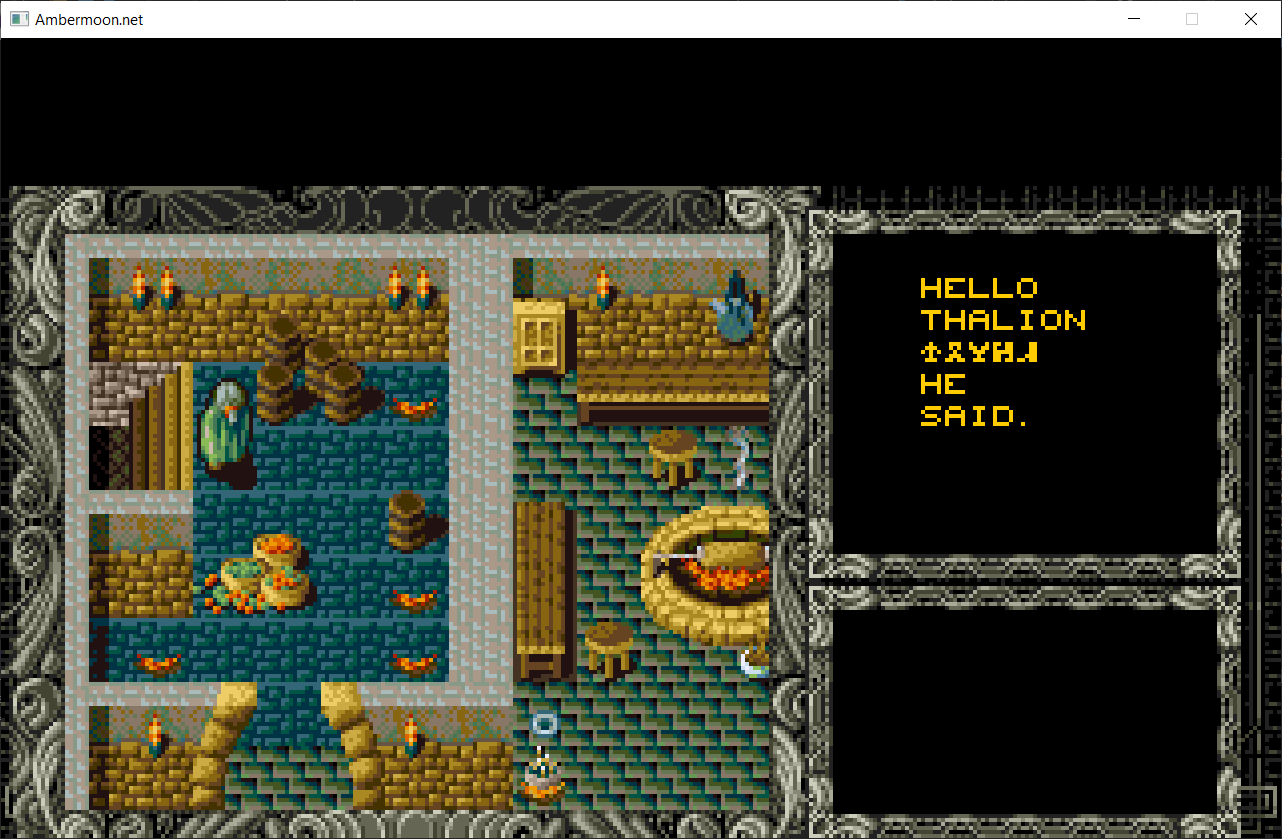
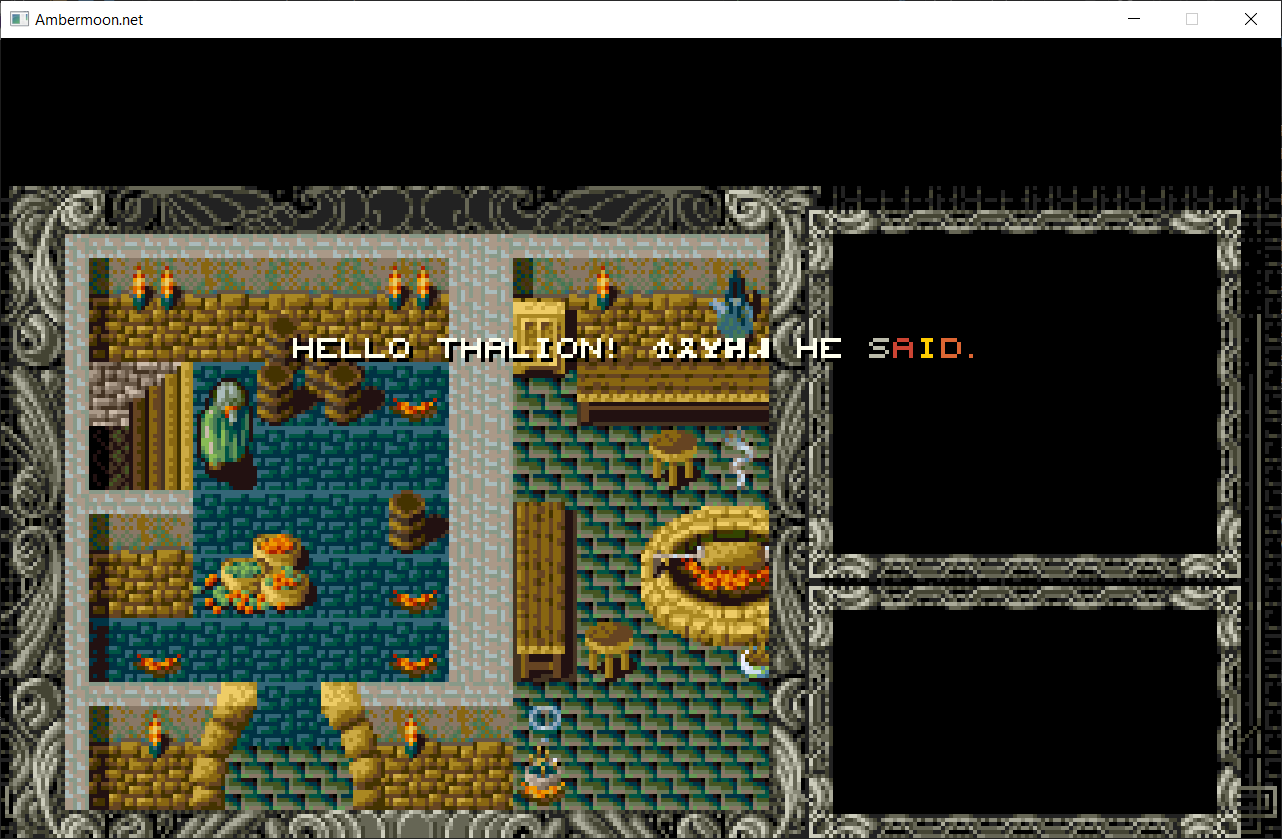
Improved text rendering (colors, alignment, etc)

diff --git a/Ambermoon.Renderer.OpenGL/RenderText.cs b/Ambermoon.Renderer.OpenGL/RenderText.cs
@@ -112,6 +112,7 @@ namespace Ambermoon.Renderer
                     return;
 
                 text = value;
+
                 UpdateTextSprites();
             }
         }
@@ -133,6 +134,7 @@ namespace Ambermoon.Renderer
             int lastLineBreakIndex = -1;
             characterPositions = new Position[text.GlyphIndices.Length];
             lastCharacterToRender = -1;
+            int numEmptyCharacterInLine = 0; // e.g. color swaps
 
             bool NewLine()
             {
@@ -141,6 +143,7 @@ namespace Ambermoon.Renderer
 
                 x = X;
                 y += LineHeight;
+                numEmptyCharacterInLine = 0;
 
                 return y + CharacterHeight - 1 < bounds.Bottom;
             }
@@ -150,23 +153,32 @@ namespace Ambermoon.Renderer
                 if (textAlign == TextAlign.Left)
                     return;
 
-                int remainingWidth = bounds.Size.Width - (lineEndGlyphIndex - lastLineBreakIndex) * CharacterWidth;
+                int remainingWidth = bounds.Size.Width - (lineEndGlyphIndex - lastLineBreakIndex - numEmptyCharacterInLine) * CharacterWidth;
                 int adjustment = textAlign == TextAlign.Right
                     ? remainingWidth
                     : remainingWidth / 2; // center
 
                 for (int i = lastLineBreakIndex + 1; i <= lineEndGlyphIndex; ++i)
-                    characterPositions[i].X += adjustment;
+                {
+                    if (characterPositions[i] != null)
+                        characterPositions[i].X += adjustment;
+                }
             }
 
             for (int i = 0; i < text.GlyphIndices.Length; ++i)
             {
                 byte glyphIndex = text.GlyphIndices[i];
 
+                if (glyphIndex >= (byte)SpecialGlyph.FirstColor)
+                {
+                    ++numEmptyCharacterInLine;
+                    continue;
+                }
+
                 // Space is not rendered.
                 // $ is used for non-breaking (hard) space. Also not rendered.
                 // ^ is used as a line-break. Also not rendered.
-                if (glyphIndex == ' ' || glyphIndex == '$')
+                if (glyphIndex == (byte)SpecialGlyph.SoftSpace || glyphIndex == (byte)SpecialGlyph.HardSpace)
                 {
                     lastWhitespaceIndex = i;
                     x += CharacterWidth;
@@ -182,7 +194,7 @@ namespace Ambermoon.Renderer
 
                     continue;
                 }
-                if (glyphIndex == '^')
+                if (glyphIndex == (byte)SpecialGlyph.NewLine)
                 {
                     lastWhitespaceIndex = i;
                     AdjustLineAlign(i - 1);
@@ -229,6 +241,8 @@ namespace Ambermoon.Renderer
 
             lastCharacterToRender = characterPositions.Select((pos, index) => new { pos, index }).Last(p => p.pos != null).index;
 
+            AdjustLineAlign(lastCharacterToRender);
+
             return true;
         }
 
@@ -242,9 +256,14 @@ namespace Ambermoon.Renderer
             if (!UpdateCharacterPositions())
                 return;
 
+            byte colorIndex = (byte)TextColor;
+
             for (int i = 0; i <= lastCharacterToRender; ++i)
             {
                 byte glyphIndex = text.GlyphIndices[i];
+
+                if (glyphIndex >= (byte)SpecialGlyph.FirstColor)
+                    colorIndex = (byte)(glyphIndex - SpecialGlyph.FirstColor);
 
                 if (characterPositions[i] == null)
                     continue;
@@ -253,7 +272,7 @@ namespace Ambermoon.Renderer
                 var textureCoord = glyphTextureMapping[glyphIndex];
                 var sprite = new TextCharacterSprite(CharacterWidth, CharacterHeight, textureCoord.X, textureCoord.Y, virtualScreen)
                 {
-                    TextColorIndex = (byte)TextColor,
+                    TextColorIndex = colorIndex,
                     X = position.X,
                     Y = position.Y,
                     Layer = Layer,

diff --git a/Ambermoon.net/GameWindow.cs b/Ambermoon.net/GameWindow.cs
@@ -153,7 +153,7 @@ namespace Ambermoon
                 new ItemManager(gameData, new ItemReader()));
             Game.StartNew(); // TODO: Remove later
 
-            Game.ShowMessage(new Rect(230, 60, 120, 120), "Hello ~LEAD~! ~RUN1~RUNES~NORM~ he said.", TextColor.Yellow, true, TextAlign.Left);
+            Game.ShowMessage(new Rect(0, 75, 320, 50), "Hello ~LEAD~! ~RUN1~RUNES~NORM~ ~SEX1~ ~INK3~s~INK4~a~INK5~i~INK6~d.", TextColor.White, true, TextAlign.Center);
         }
 
         void Window_Render(double delta)
